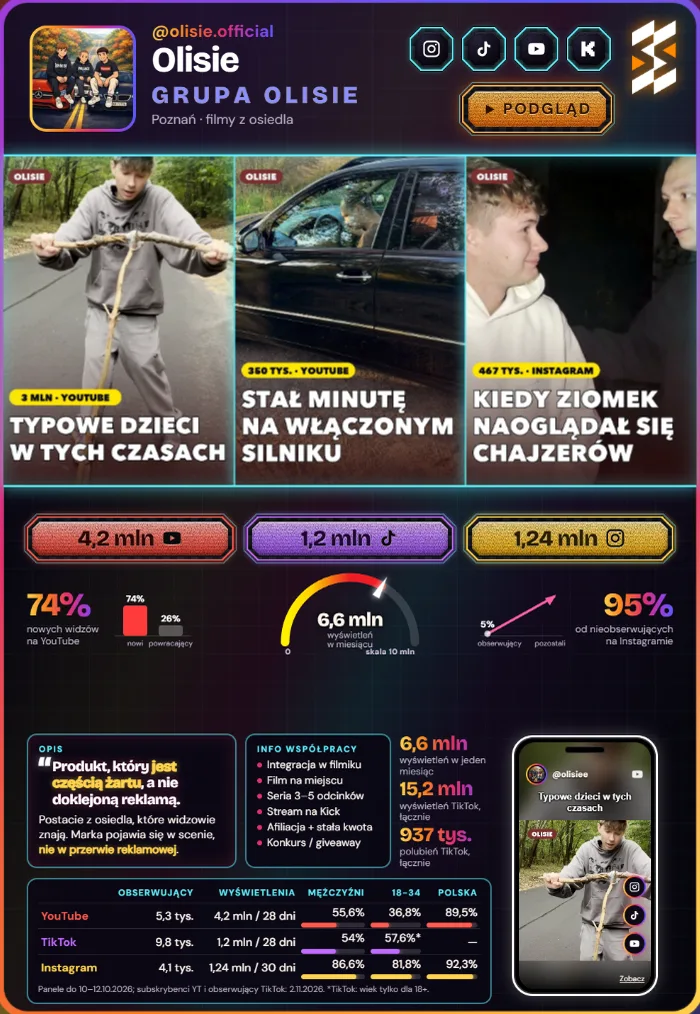
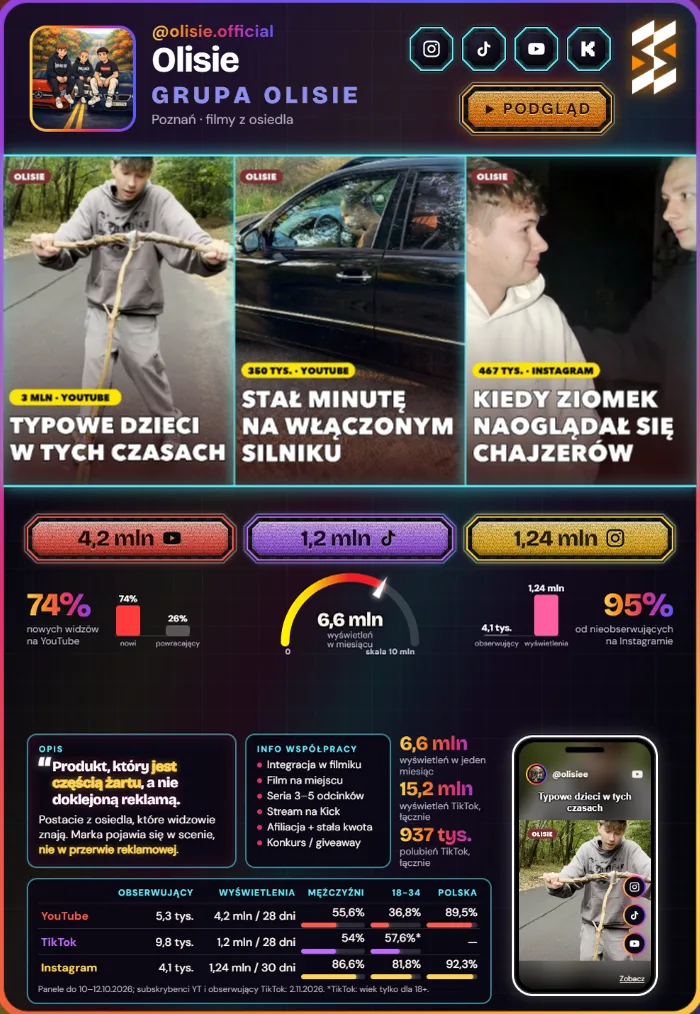
Karta Olisie: przy 95% zamiast linii 5% obserwujacych slupki 4,1 tys. obserwujacych kontra 1,24 mln wyswietlen

diff --git a/olisie/index.html b/olisie/index.html
@@ -429,7 +429,7 @@ const DANE={
   // wskaznik: suma wyswietlen z paneli (pole suma), skala = max
   gauge:{max:10,jedn:' mln',d:1,skala:'skala 10 mln',opis:'wyświetleń<br>w miesiącu'},
   // dwa fakty po bokach wskaznika (karta w spoczynku)
-  boki:[{v:'74%',o:'nowych widzów<br>na YouTube',wyk:{typ:'slupki',kol:'#ff3b3b',a:{l:'nowi',v:74},b:{l:'powracający',v:26}}},{v:'95%',o:'od nieobserwujących<br>na Instagramie',wyk:{typ:'linia',kol:'#ff5fa2',a:{l:'obserwujący',v:5},b:{l:'pozostali',v:95}}}],   // wyk: maly wykres obok liczby; b = reszta do 100%
+  boki:[{v:'74%',o:'nowych widzów<br>na YouTube',wyk:{typ:'slupki',kol:'#ff3b3b',a:{l:'nowi',v:74},b:{l:'powracający',v:26}}},{v:'95%',o:'od nieobserwujących<br>na Instagramie',wyk:{typ:'slupki',kol:'#ff5fa2',hl:1,a:{l:'obserwujący',v:4109/1240000*100,t:'4,1 tys.'},b:{l:'wyświetlenia',v:100,t:'1,24 mln'}}}],   // wyk: maly wykres obok liczby (v = wysokosc slupka w %, t = napis nad slupkiem, hl = ktory slupek w kolorze)
   opisCytat:'Produkt, który {{31.9|jest częścią żartu}}, a nie doklejoną reklamą.',
   opis:'Postacie z osiedla, które widzowie znają. Marka pojawia się w scenie, {{32.5|nie w przerwie reklamowej}}.',
   rolki:{},
@@ -574,7 +574,7 @@ let T=TMIN,shown=TMIN,playing=false,paused=false,lastScrub=-1e9,enter=EMBED?1:0,
 const windows=$$('[data-win]'),rvs=$$('[data-rv]'),bos=$$('[data-bo]'),ksL=$$('#ks span'),socL=$$('.soc a');
 const PN=DANE.paneli.map(p=>({p,el:$('#'+p.id),sh:$('#sh'+p.id),rows:$$('#'+p.id+' .rw')}));
 const PPOS=[[44,292,14,308],[354,292,346,308],[664,292,678,308]];   // [lewo w spoczynku, szer. w spoczynku, lewo w sekwencji 3, szer. w sekwencji 3]
-function wyk(w){if(!w)return'';const B=70,H=58,y=v=>B-H*v/100;if(w.typ==='slupki')return`<svg class="wk" viewBox="0 0 124 88" aria-hidden="true"><line x1="8" x2="116" y1="${B}" y2="${B}" stroke="rgba(255,255,255,.22)"/>`+[w.a,w.b].map((d,i)=>{const x=i?70:20,h=H*d.v/100;return`<rect class="br" x="${x}" y="${B-h}" width="34" height="${h}" rx="4" fill="${i?'rgba(255,255,255,.28)':w.kol}"/><text class="wv" x="${x+17}" y="${B-h-5}" text-anchor="middle">${d.v}%</text><text class="wl" x="${x+17}" y="${B+14}" text-anchor="middle">${d.l}</text>`}).join('')+'</svg>';const x1=14,x2=108,y1=y(w.a.v),y2=y(w.b.v);return`<svg class="wk" viewBox="0 0 124 88" aria-hidden="true"><line x1="4" x2="120" y1="${B}" y2="${B}" stroke="rgba(255,255,255,.22)"/><path class="ln" pathLength="1" d="M${x1} ${y1}L${x2} ${y2}" stroke="${w.kol}" stroke-width="3.5" stroke-linecap="round" fill="none"/><path class="ap" d="M${x2-13} ${y2+2}L${x2+3} ${y2-3}L${x2-6} ${y2+12}Z" fill="${w.kol}"/><circle cx="${x1}" cy="${y1}" r="4.5" fill="rgba(255,255,255,.75)"/><text class="wv" x="${x1}" y="${y1-9}" text-anchor="middle">${w.a.v}%</text><text class="wl" x="0" y="${B+14}">${w.a.l}</text><text class="wl" x="124" y="${B+14}" text-anchor="end">${w.b.l}</text></svg>`}
+function wyk(w){if(!w)return'';const B=70,H=58,y=v=>B-H*v/100;if(w.typ==='slupki')return`<svg class="wk" viewBox="0 0 124 88" aria-hidden="true"><line x1="8" x2="116" y1="${B}" y2="${B}" stroke="rgba(255,255,255,.22)"/>`+[w.a,w.b].map((d,i)=>{const x=i?80:10,h=Math.max(2,H*d.v/100);return`<rect class="br" x="${x}" y="${B-h}" width="34" height="${h}" rx="4" fill="${i===(w.hl||0)?w.kol:'rgba(255,255,255,.28)'}"/><text class="wv" x="${x+17}" y="${B-h-5}" text-anchor="middle">${d.t||d.v+'%'}</text><text class="wl" x="${x+17}" y="${B+14}" text-anchor="middle">${d.l}</text>`}).join('')+'</svg>';const x1=14,x2=108,y1=y(w.a.v),y2=y(w.b.v);return`<svg class="wk" viewBox="0 0 124 88" aria-hidden="true"><line x1="4" x2="120" y1="${B}" y2="${B}" stroke="rgba(255,255,255,.22)"/><path class="ln" pathLength="1" d="M${x1} ${y1}L${x2} ${y2}" stroke="${w.kol}" stroke-width="3.5" stroke-linecap="round" fill="none"/><path class="ap" d="M${x2-13} ${y2+2}L${x2+3} ${y2-3}L${x2-6} ${y2+12}Z" fill="${w.kol}"/><circle cx="${x1}" cy="${y1}" r="4.5" fill="rgba(255,255,255,.75)"/><text class="wv" x="${x1}" y="${y1-9}" text-anchor="middle">${w.a.v}%</text><text class="wl" x="0" y="${B+14}">${w.a.l}</text><text class="wl" x="124" y="${B+14}" text-anchor="end">${w.b.l}</text></svg>`}
 let curSeg=-1;const SEGSUB=['nagłówek karty','kim jest i do kogo mówi','YouTube, TikTok i Instagram w liczbach','opis, tabela, filmy','powrót do karty'];
 const set=(el,k,v)=>{const s=v.toFixed(3);if(el['_'+k]!==s){el['_'+k]=s;el.style.setProperty(k,s)}};
 
